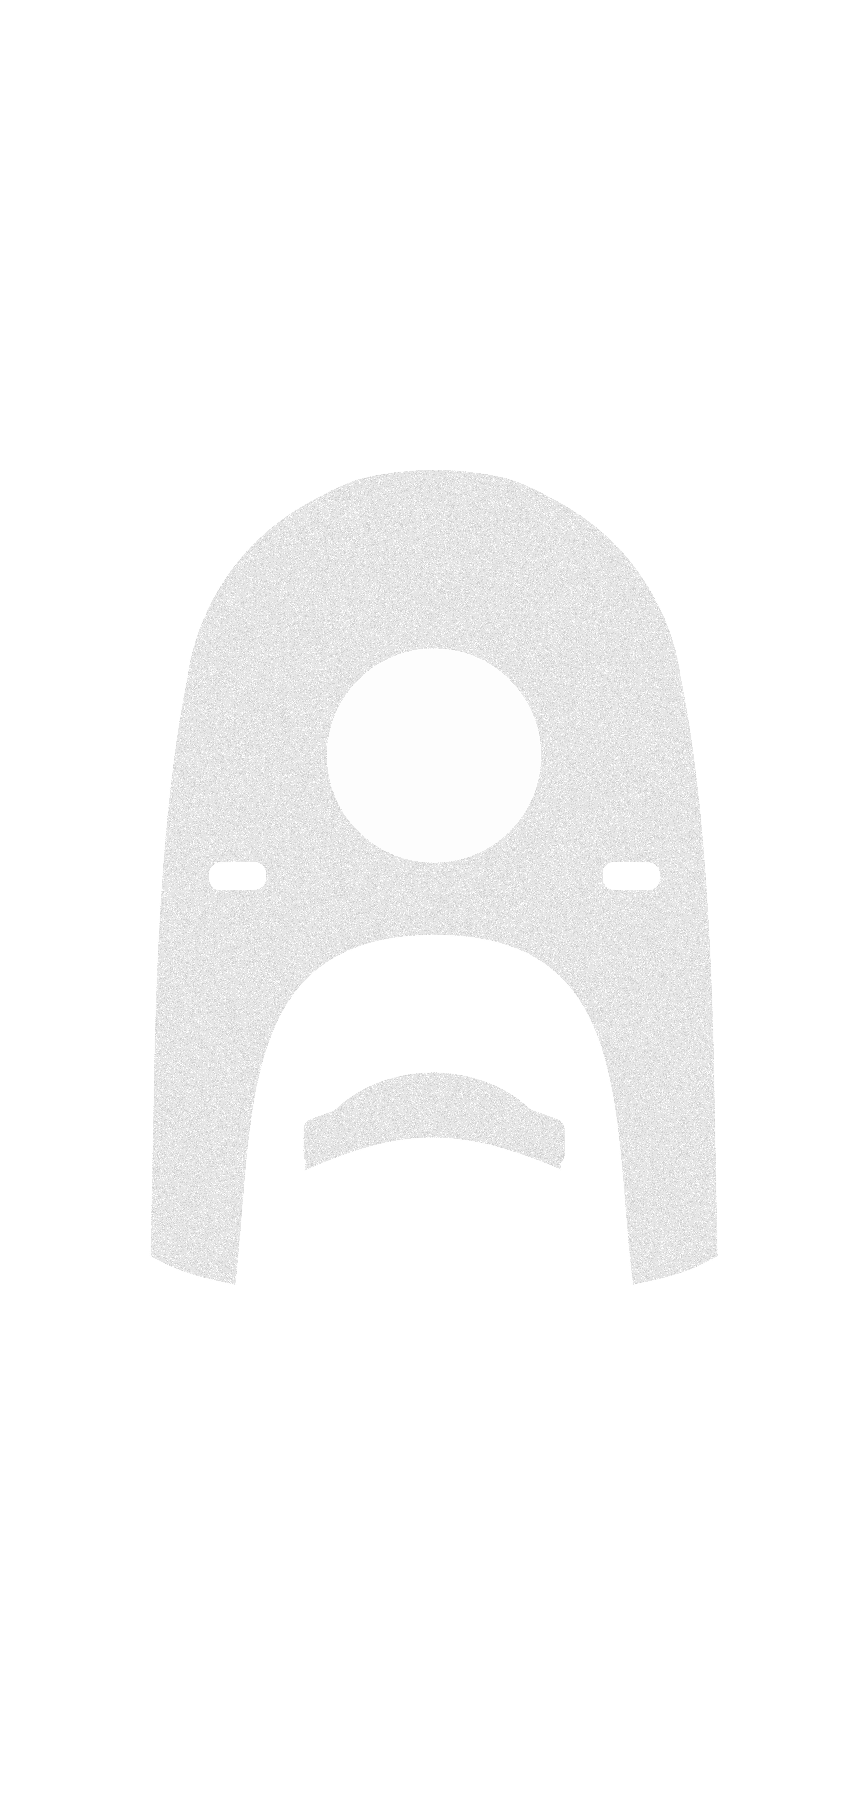
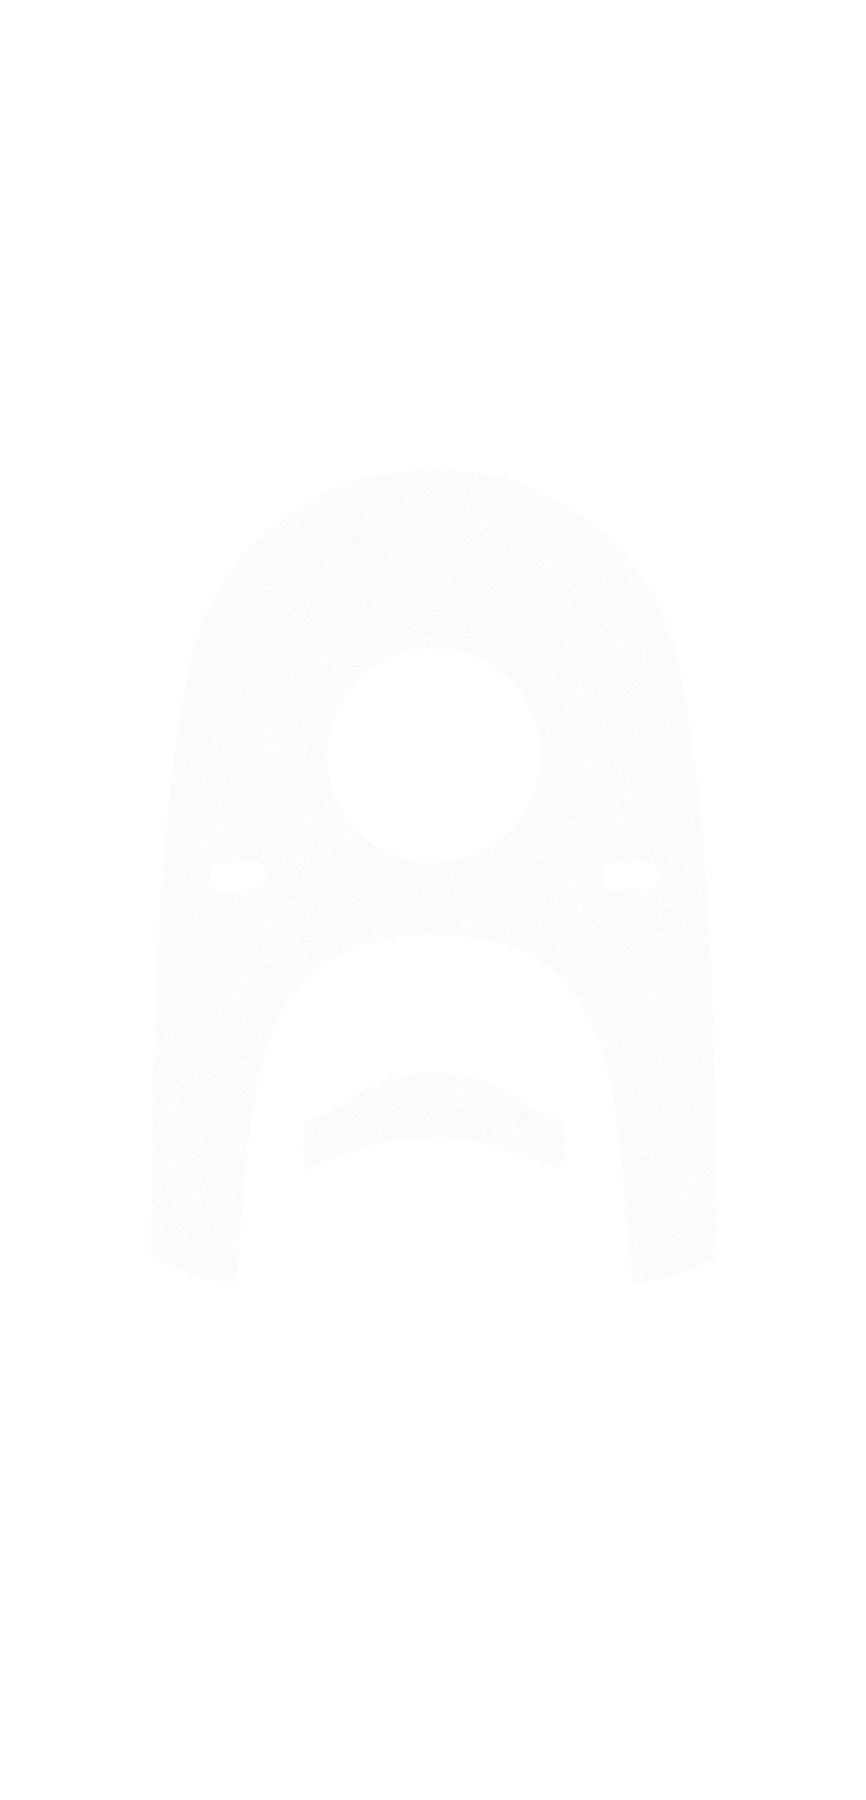
fix(app): preserve layered paint tone and scale (librescoot-jluu)

Changed region(s): [[0.1559, 0.2489, 0.8418, 0.7156], [0.343, 0.5911, 0.6547, 0.6533]]

diff --git a/lib/ui/widgets/rendered_scooter_artwork.dart b/lib/ui/widgets/rendered_scooter_artwork.dart
@@ -28,54 +28,59 @@ class RenderedScooterArtwork extends StatelessWidget {
 
   @override
   Widget build(BuildContext context) {
-    final imageFit = fit ?? BoxFit.contain;
-    return RepaintBoundary(
-      child: Stack(
-        alignment: Alignment.center,
-        children: [
-          _image('images/scooter/${_prefix}_base.png', imageFit),
+    final artwork = Stack(
+      alignment: Alignment.center,
+      children: [
+        _image('images/scooter/${_prefix}_base.png'),
+        Positioned.fill(
+          child: ColorFiltered(
+            colorFilter: ColorFilter.mode(_paintColor, BlendMode.modulate),
+            child: _image('images/scooter/${_prefix}_panels.png'),
+          ),
+        ),
+        if (matte)
           Positioned.fill(
-            child: ColorFiltered(
-              colorFilter: ColorFilter.mode(_paintColor, BlendMode.modulate),
-              child: _image('images/scooter/${_prefix}_panels.png', imageFit),
+            key: const ValueKey('custom-paint-matte-layer'),
+            child: _image('images/scooter/${_prefix}_matte.png'),
+          )
+        else
+          Positioned.fill(
+            key: const ValueKey('custom-paint-gloss-layer'),
+            child: ShaderMask(
+              blendMode: BlendMode.srcIn,
+              shaderCallback: (bounds) => RadialGradient(
+                center:
+                    view == ScooterArtworkView.front ? const Alignment(-0.72, -0.62) : const Alignment(-0.78, -0.48),
+                radius: view == ScooterArtworkView.front ? 0.82 : 0.95,
+                colors: const [
+                  Color(0x52FFFFFF),
+                  Color(0x26FFFFFF),
+                  Color(0x08FFFFFF),
+                  Colors.transparent,
+                ],
+                stops: const [0, 0.28, 0.58, 1],
+              ).createShader(bounds),
+              child: _image('images/scooter/${_prefix}_panels.png'),
             ),
           ),
-          if (matte)
-            Positioned.fill(
-              key: const ValueKey('custom-paint-matte-layer'),
-              child: _image('images/scooter/${_prefix}_matte.png', imageFit),
-            )
-          else
-            Positioned.fill(
-              key: const ValueKey('custom-paint-gloss-layer'),
-              child: ShaderMask(
-                blendMode: BlendMode.srcIn,
-                shaderCallback: (bounds) => RadialGradient(
-                  center:
-                      view == ScooterArtworkView.front ? const Alignment(-0.72, -0.62) : const Alignment(-0.78, -0.48),
-                  radius: view == ScooterArtworkView.front ? 0.82 : 0.95,
-                  colors: const [
-                    Color(0x52FFFFFF),
-                    Color(0x26FFFFFF),
-                    Color(0x08FFFFFF),
-                    Colors.transparent,
-                  ],
-                  stops: const [0, 0.28, 0.58, 1],
-                ).createShader(bounds),
-                child: _image('images/scooter/${_prefix}_panels.png', imageFit),
-              ),
-            ),
-        ],
-      ),
+      ],
     );
+    final sizedArtwork = height != null && width == null
+        ? SizedBox(
+            width: height! * (view == ScooterArtworkView.front ? 866 / 1800 : 2110 / 1738),
+            height: height,
+            child: artwork,
+          )
+        : artwork;
+    return RepaintBoundary(child: sizedArtwork);
   }
 
-  Widget _image(String asset, BoxFit imageFit) {
+  Widget _image(String asset) {
     return Image.asset(
       asset,
       height: height,
       width: width,
-      fit: imageFit,
+      fit: fit,
       cacheWidth: cacheWidth,
       gaplessPlayback: true,
     );

diff --git a/test/ui/color_picker_dialog_test.dart b/test/ui/color_picker_dialog_test.dart
@@ -57,8 +57,8 @@ void main() {
     final backdrop = find.byKey(const ValueKey('scooter-color-preview-backdrop'));
     expect(backdrop, findsOneWidget);
     final backdropSize = tester.getSize(backdrop);
-    expect(find.byKey(const ValueKey('scooter-color-front-#557064-true')), findsOneWidget);
-    expect(find.byKey(const ValueKey('scooter-color-side-#557064-true')), findsNothing);
+    expect(find.byKey(const ValueKey('scooter-color-front-#255242-true')), findsOneWidget);
+    expect(find.byKey(const ValueKey('scooter-color-side-#255242-true')), findsNothing);
 
     final glossyFill = tester.widget<DecoratedBox>(find.byKey(const ValueKey('scooter-color-fill-6')));
     final glossyGradient = (glossyFill.decoration as BoxDecoration).gradient! as LinearGradient;
@@ -71,11 +71,11 @@ void main() {
     await tester.pump(const Duration(milliseconds: 260));
     expect(tester.getSize(backdrop), backdropSize);
     await tester.pump(const Duration(milliseconds: 300));
-    expect(find.byKey(const ValueKey('scooter-color-side-#557064-true')), findsOneWidget);
+    expect(find.byKey(const ValueKey('scooter-color-side-#255242-true')), findsOneWidget);
 
     await tester.tap(find.byKey(const ValueKey('scooter-color-option-6')));
     await tester.pump(const Duration(milliseconds: 160));
-    expect(find.byKey(const ValueKey('scooter-color-side-#557064-true')), findsOneWidget);
+    expect(find.byKey(const ValueKey('scooter-color-side-#255242-true')), findsOneWidget);
     expect(find.byKey(const ValueKey('scooter-color-side-#0F214F-false')), findsOneWidget);
     await tester.pump(const Duration(milliseconds: 200));
     expect(find.byKey(const ValueKey('scooter-color-side-#0F214F-false')), findsOneWidget);

diff --git a/lib/ui/theme/scooter_colors.dart b/lib/ui/theme/scooter_colors.dart
@@ -22,10 +22,19 @@ int canonicalScooterColor(int value) => value == 1 ? 3 : value;
 
 bool usesLayeredScooterArtwork(int value) => standardScooterColorValues.contains(canonicalScooterColor(value));
 
-String layeredScooterColor(int value) {
-  final color = scooterColors[canonicalScooterColor(value)]!.displayColor.toARGB32() & 0xFFFFFF;
-  return '#${color.toRadixString(16).padLeft(6, '0').toUpperCase()}';
-}
+String layeredScooterColor(int value) => _layeredArtworkColors[canonicalScooterColor(value)]!;
+
+const Map<int, String> _layeredArtworkColors = {
+  0: '#0F0F0F',
+  2: '#255242',
+  3: '#D5D5D5',
+  4: '#B86057',
+  5: '#D4220F',
+  6: '#0F214F',
+  7: '#494949',
+  8: '#80CBC4',
+  9: '#03A9F4',
+};
 
 bool layeredScooterColorIsMatte(int value) =>
     scooterColors[canonicalScooterColor(value)]!.finish == ScooterColorFinish.matte;

diff --git a/test/ui/scooter_side_visual_test.dart b/test/ui/scooter_side_visual_test.dart
@@ -80,7 +80,10 @@ void main() {
       ),
     );
 
-    final artwork = tester.widget<RenderedScooterArtwork>(find.byType(RenderedScooterArtwork));
+    final artworkFinder = find.byType(RenderedScooterArtwork);
+    final artwork = tester.widget<RenderedScooterArtwork>(artworkFinder);
+    expect(tester.getSize(artworkFinder).height, 160);
+    expect(tester.getSize(artworkFinder).width, closeTo(160 * 2110 / 1738, 0.1));
     expect(artwork.color, '#123456');
     expect(artwork.matte, isFalse);
     expect(find.byKey(const ValueKey('custom-paint-gloss-layer')), findsOneWidget);
